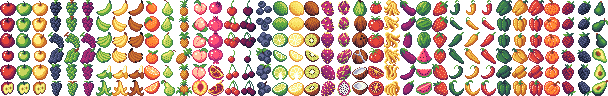
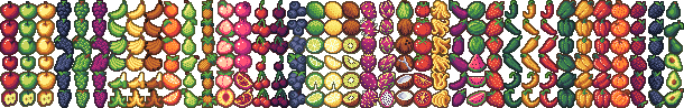
fixed fruits

diff --git a/frontend/src/baseClasses/Fruit.ts b/frontend/src/baseClasses/Fruit.ts
@@ -91,14 +91,48 @@ export class Fruit extends MapEntity {
   // red pepper: 30
   // red bell-pepper: 33
   static totalCols = 38;
-  static spriteDim = 16;
-  static validCols = [0, 1, 2];
-  // static validCols = [0,1,2,3,4,5,6,7,8,9,10,11,12,13,14,15,16,17,18,19,20,21,22,23,24,25,26,27,28,29,30,31,32,33,34,35,36,37];
+  static spriteDim = 18;
+  static validCols = [0,1,2,3,4,5,6,7,8,9,10,11,12,13,14,15,16,17,18,19,20,21,22,23,24,25,26,27,28,29,30,31,32,33,34,35,36,37];
 
   static fruitStagesChart = [
-    [[0, 1, 2, 4], [3], [5]],
-    [[0, 1, 2, 4], [3], [5]],
-    [[0, 1, 2, 4], [3], [5]],
+    [[0, 1, 2, 4], [3], [5]], // Row 0
+    [[0, 1, 2, 4], [3], [5]], // Row 1
+    [[0, 1, 2, 4], [3], [5]], // Row 2
+    [[2, 3, 5], [4], [1, 2]], // Row 3
+    [[2, 3, 5], [4], [1, 2]], // Row 4
+    [[2, 3, 5], [4], [1, 2]], // Row 5
+    [[1, 2, 3], [0, 1], [4, 5]], // Row 6
+    [[1, 2, 3], [0, 1], [4, 5]], // Row 7
+    [[1, 2, 3], [0, 1], [4, 5]], // Row 8
+    [[1, 2], [0, 3], [4, 5]], // Row 9
+    [[1, 2], [0, 3], [4, 5]], // Row 10
+    [[1, 2], [0, 3], [4, 5]], // Row 11
+    [[0, 1, 2, 3], [4], [5]], // Row 12
+    [[0, 1, 2], [3], [4, 5]], // Row 13
+    [[2, 5], [1, 4], [0, 3]], // Row 14
+    [[2, 5], [1, 4], [0, 3]], // Row 15
+    [[3, 4], [0, 1], [2, 5]], // Row 16
+    [[0, 1], [2, 5], [3, 4]], // Row 17
+    [[0, 1], [2, 5], [3, 4]], // Row 18
+    [[0, 1], [2, 5], [3, 4]], // Row 19
+    [[0, 1, 2, 3], [4], [5]], // Row 20
+    [[0, 1, 2, 3], [4], [5]], // Row 21
+    [[0, 1, 2], [3], [4, 5]], // Row 22
+    [[0, 1, 2], [3], [4, 5]], // Row 23
+    [[0, 1, 2], [3], [4, 5]], // Row 24
+    [[0, 1, 2], [3], [4, 5]], // Row 25
+    [[0, 1, 2], [3], [4, 5]], // Row 26
+    [[0, 1, 2], [3], [4, 5]], // Row 27
+    [[2, 3, 5], [0], [1, 4]], // Row 28
+    [[2, 3, 5], [0], [1, 4]], // Row 29
+    [[2, 3, 5], [0], [1, 4]], // Row 30
+    [[0, 3, 5], [1], [2, 4]], // Row 31
+    [[0, 3, 5], [1], [2, 4]], // Row 32
+    [[0, 3, 5], [1], [2, 4]], // Row 33
+    [[0, 1, 5], [2, 3], [4]], // Row 34
+    [[0, 2, 4], [1, 3], [5]], // Row 35
+    [[0, 2, 4], [1, 3], [5]], // Row 36
+    [[0, 1, 2, 3], [4], [5]], // Row 37
   ];
 
   setRow = (stage: number): number => {

diff --git a/frontend/src/App.tsx b/frontend/src/App.tsx
@@ -14,7 +14,6 @@ import Store from './pages/store/Store';
 import Welcome from './pages/welcome/Welcome';
 
 function App() {
-  const { preloadImages } = usePreloadedImages();
   const { preloadImages } = usePreloadedImagesStore.getState();
   useEffect(() => {
     preloadImages();

diff --git a/frontend/src/assets/imgs/utils/generate_outline.py b/frontend/src/assets/imgs/utils/generate_outline.py
@@ -1,0 +1,134 @@
+import numpy as np
+from PIL import Image
+import os
+from collections import deque
+
+def get_darker_color(color, factor=0.7):
+    """Create a darker version of the given color."""
+    if len(color) == 4:  # RGBA
+        r, g, b, a = color
+        return (int(r * factor), int(g * factor), int(b * factor), a)
+    else:  # RGB
+        r, g, b = color
+        return (int(r * factor), int(g * factor), int(b * factor))
+
+def find_objects(image):
+    """Find all distinct objects in the sprite sheet."""
+    width, height = image.size
+    img_data = np.array(image)
+    
+    # Create a mask for non-transparent pixels
+    if image.mode == 'RGBA':
+        mask = img_data[:, :, 3] > 0  # Alpha > 0
+    else:
+        # For RGB images, assume white (255,255,255) is the background
+        mask = ~np.all(img_data == [255, 255, 255], axis=2)
+    
+    # Label connected components (objects)
+    visited = np.zeros_like(mask, dtype=bool)
+    objects = []
+    
+    # BFS to find connected components
+    directions = [(0, 1), (1, 0), (0, -1), (-1, 0)]
+    
+    for y in range(height):
+        for x in range(width):
+            if mask[y, x] and not visited[y, x]:
+                # Found a new object
+                obj_pixels = []
+                queue = deque([(x, y)])
+                visited[y, x] = True
+                
+                while queue:
+                    cx, cy = queue.popleft()
+                    obj_pixels.append((cx, cy))
+                    
+                    for dx, dy in directions:
+                        nx, ny = cx + dx, cy + dy
+                        if (0 <= nx < width and 0 <= ny < height and 
+                            mask[ny, nx] and not visited[ny, nx]):
+                            visited[ny, nx] = True
+                            queue.append((nx, ny))
+                
+                objects.append(obj_pixels)
+    
+    return objects
+
+def add_outlines_with_padding(image_path, output_path, padding=1, darkness_factor=0.7):
+    """Add 1px outlines to all objects in the sprite sheet with padding."""
+    # Load the image
+    img = Image.open(image_path)
+    img = img.convert("RGBA")
+    width, height = img.size
+    
+    # Create a new image with padding
+    new_width = width + 2 * padding
+    new_height = height + 2 * padding
+    padded_img = Image.new("RGBA", (new_width, new_height), (0, 0, 0, 0))
+    
+    # Paste the original image in the center of the padded image
+    padded_img.paste(img, (padding, padding))
+    
+    # Create a copy for the output
+    output_img = padded_img.copy()
+    pixels = output_img.load()
+    
+    # Find all objects
+    objects = find_objects(padded_img)
+    print(f"Found {len(objects)} objects in the sprite sheet")
+    
+    # For each object, find its border pixels and determine dominant color
+    for obj_index, obj_pixels in enumerate(objects):
+        # Calculate average color of the object
+        colors = [padded_img.getpixel((x, y)) for x, y in obj_pixels]
+        r_sum, g_sum, b_sum, a_sum = 0, 0, 0, 0
+        count = 0
+        
+        for color in colors:
+            if len(color) == 4 and color[3] > 0:  # Only consider non-transparent pixels
+                r_sum += color[0]
+                g_sum += color[1]
+                b_sum += color[2]
+                a_sum += color[3]
+                count += 1
+        
+        if count == 0:
+            continue  # Skip empty objects
+            
+        avg_color = (r_sum // count, g_sum // count, b_sum // count, 255)
+        outline_color = get_darker_color(avg_color, darkness_factor)
+        
+        # Find border pixels (pixels that have at least one transparent neighbor)
+        border_pixels = set()
+        directions = [(0, 1), (1, 0), (0, -1), (-1, 0), 
+                      (1, 1), (1, -1), (-1, 1), (-1, -1)]
+        
+        for x, y in obj_pixels:
+            for dx, dy in directions:
+                nx, ny = x + dx, y + dy
+                # Check if neighbor is outside the object or transparent
+                if (nx, ny) not in obj_pixels and 0 <= nx < new_width and 0 <= ny < new_height:
+                    if padded_img.getpixel((nx, ny))[3] == 0:  # Transparent pixel
+                        border_pixels.add((nx, ny))
+        
+        # Apply the outline
+        for x, y in border_pixels:
+            pixels[x, y] = outline_color
+    
+    # Save the result
+    output_img.save(output_path)
+    print(f"Saved outlined sprite sheet to {output_path}")
+
+
+if __name__ == "__main__":
+    # Ask for input and output paths
+    input_path = "fruits.png"  # Replace with your input path
+    
+    # Generate output path
+    filename, ext = os.path.splitext(input_path)
+    output_path = f"{filename}_outlined{ext}"
+    
+    # Darkness factor (0-1), lower = darker
+    darkness_factor = 0.2
+    
+    add_outlines_with_padding(input_path, output_path, padding=1, darkness_factor=0.5)
